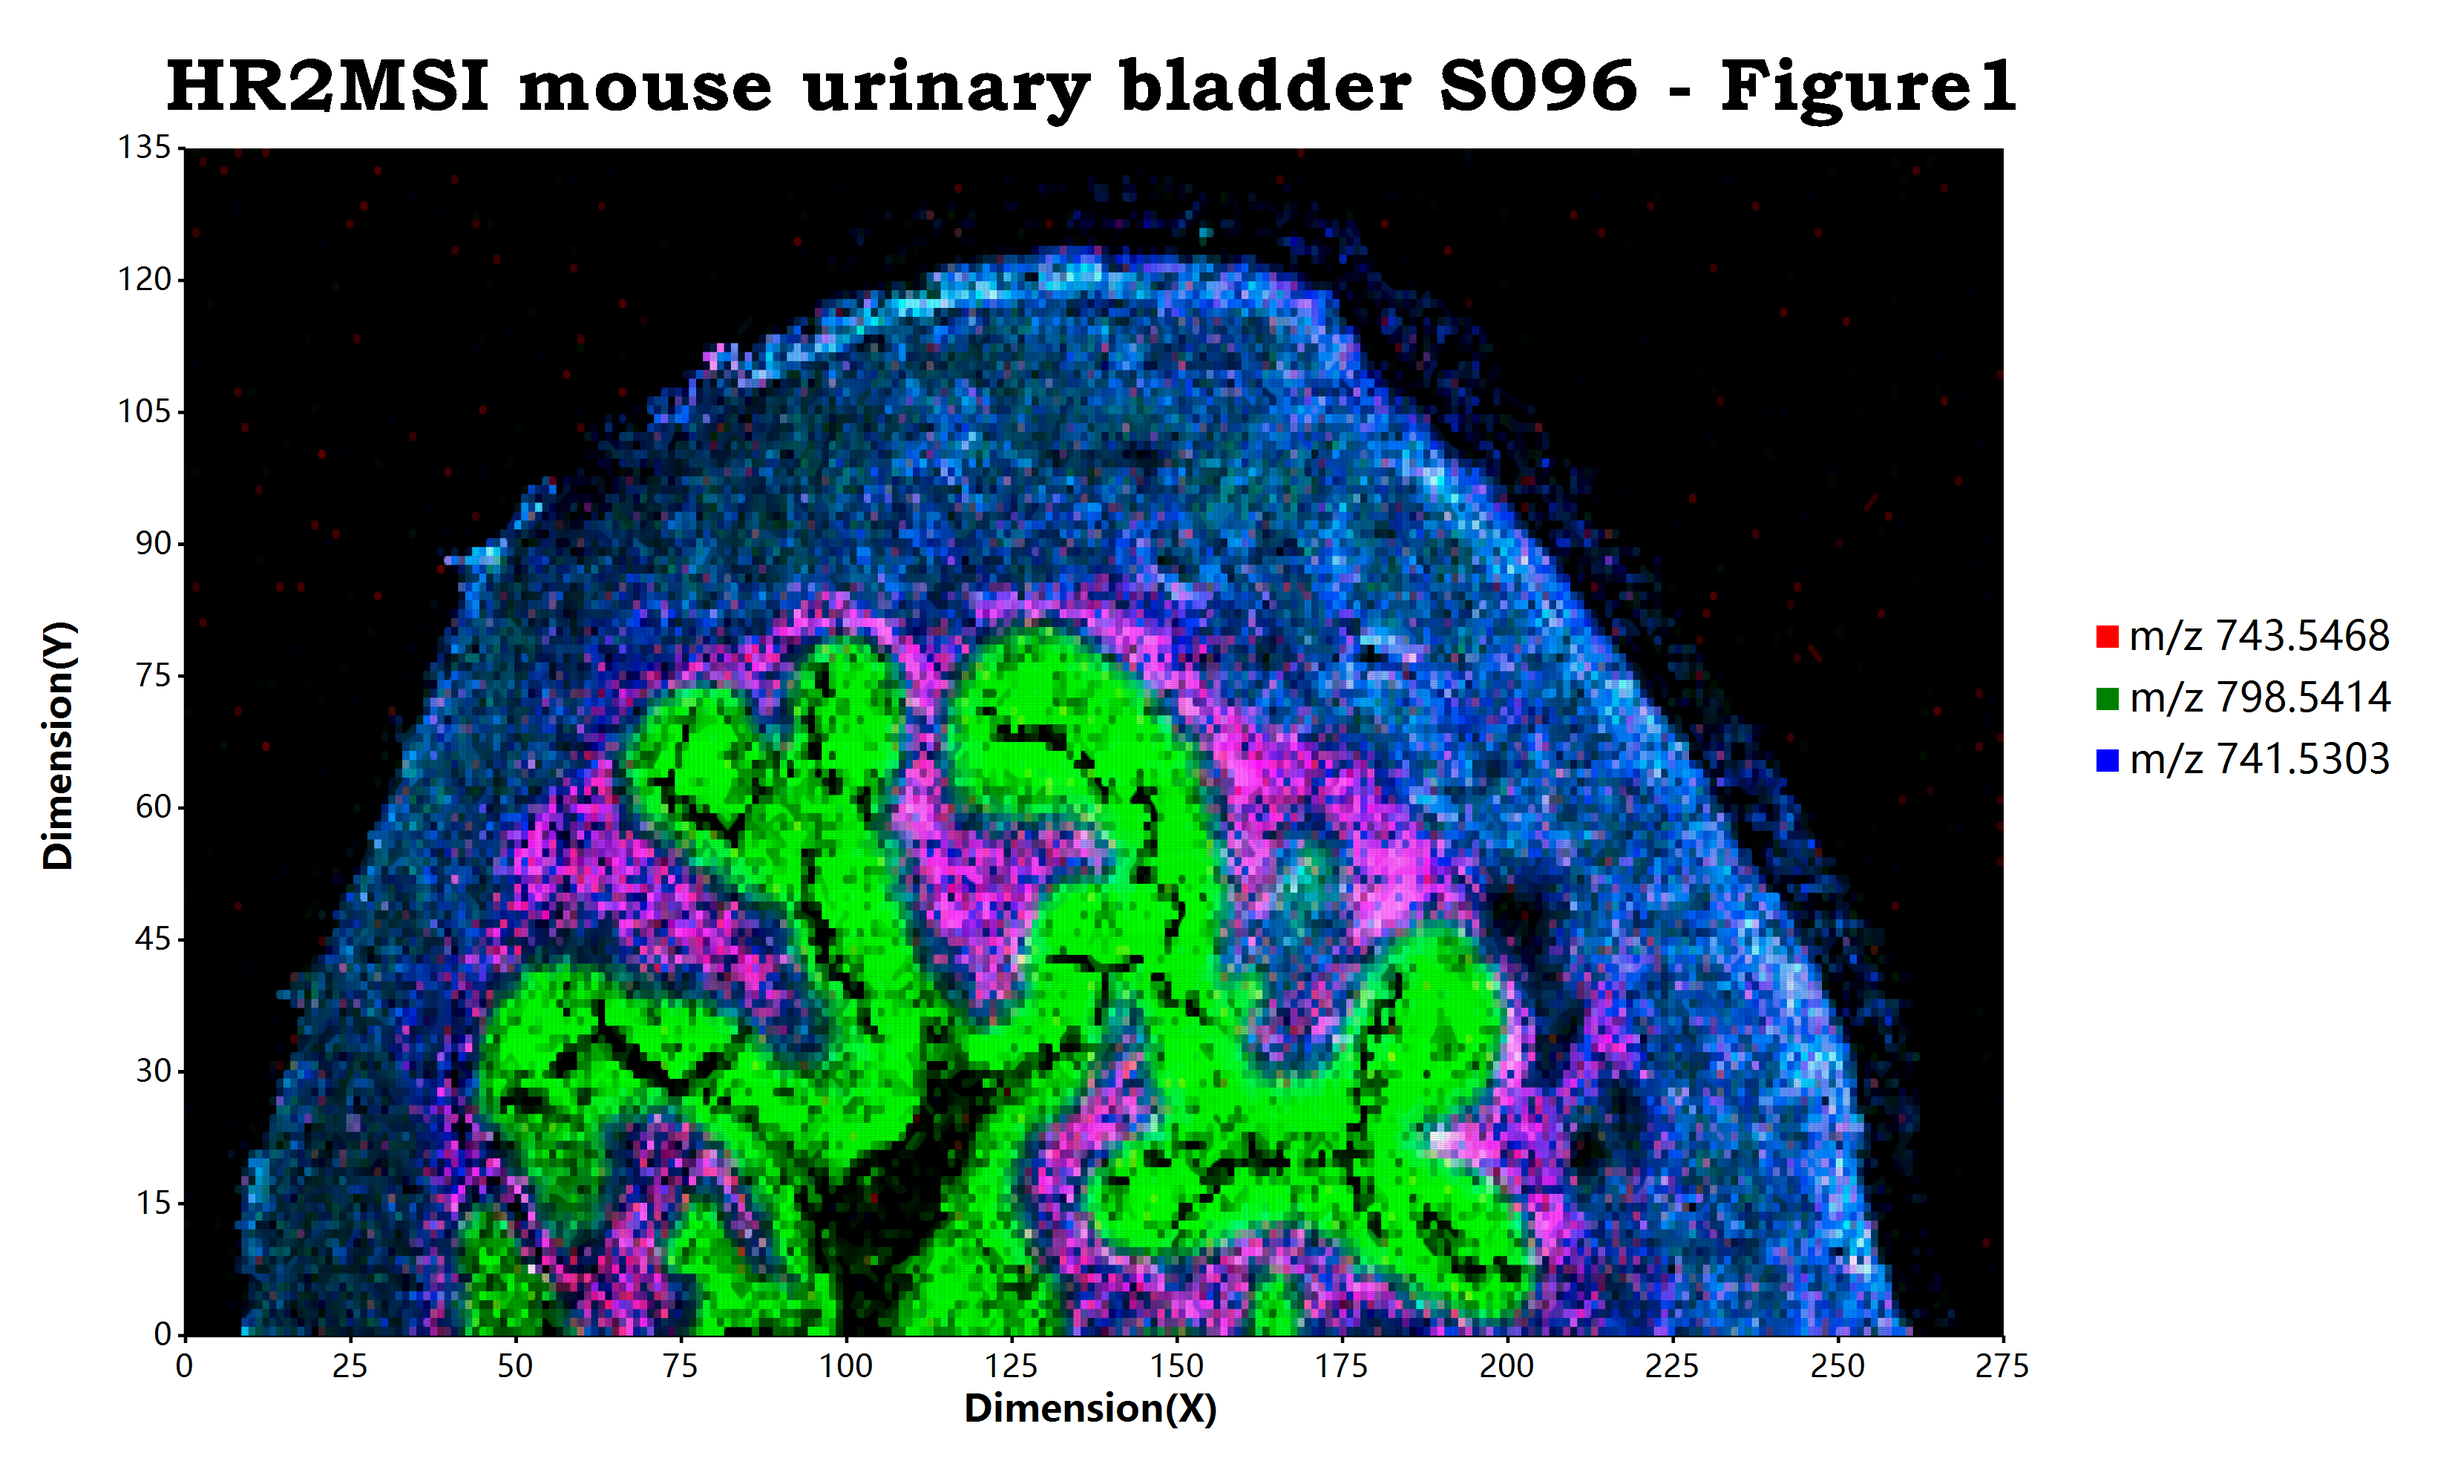
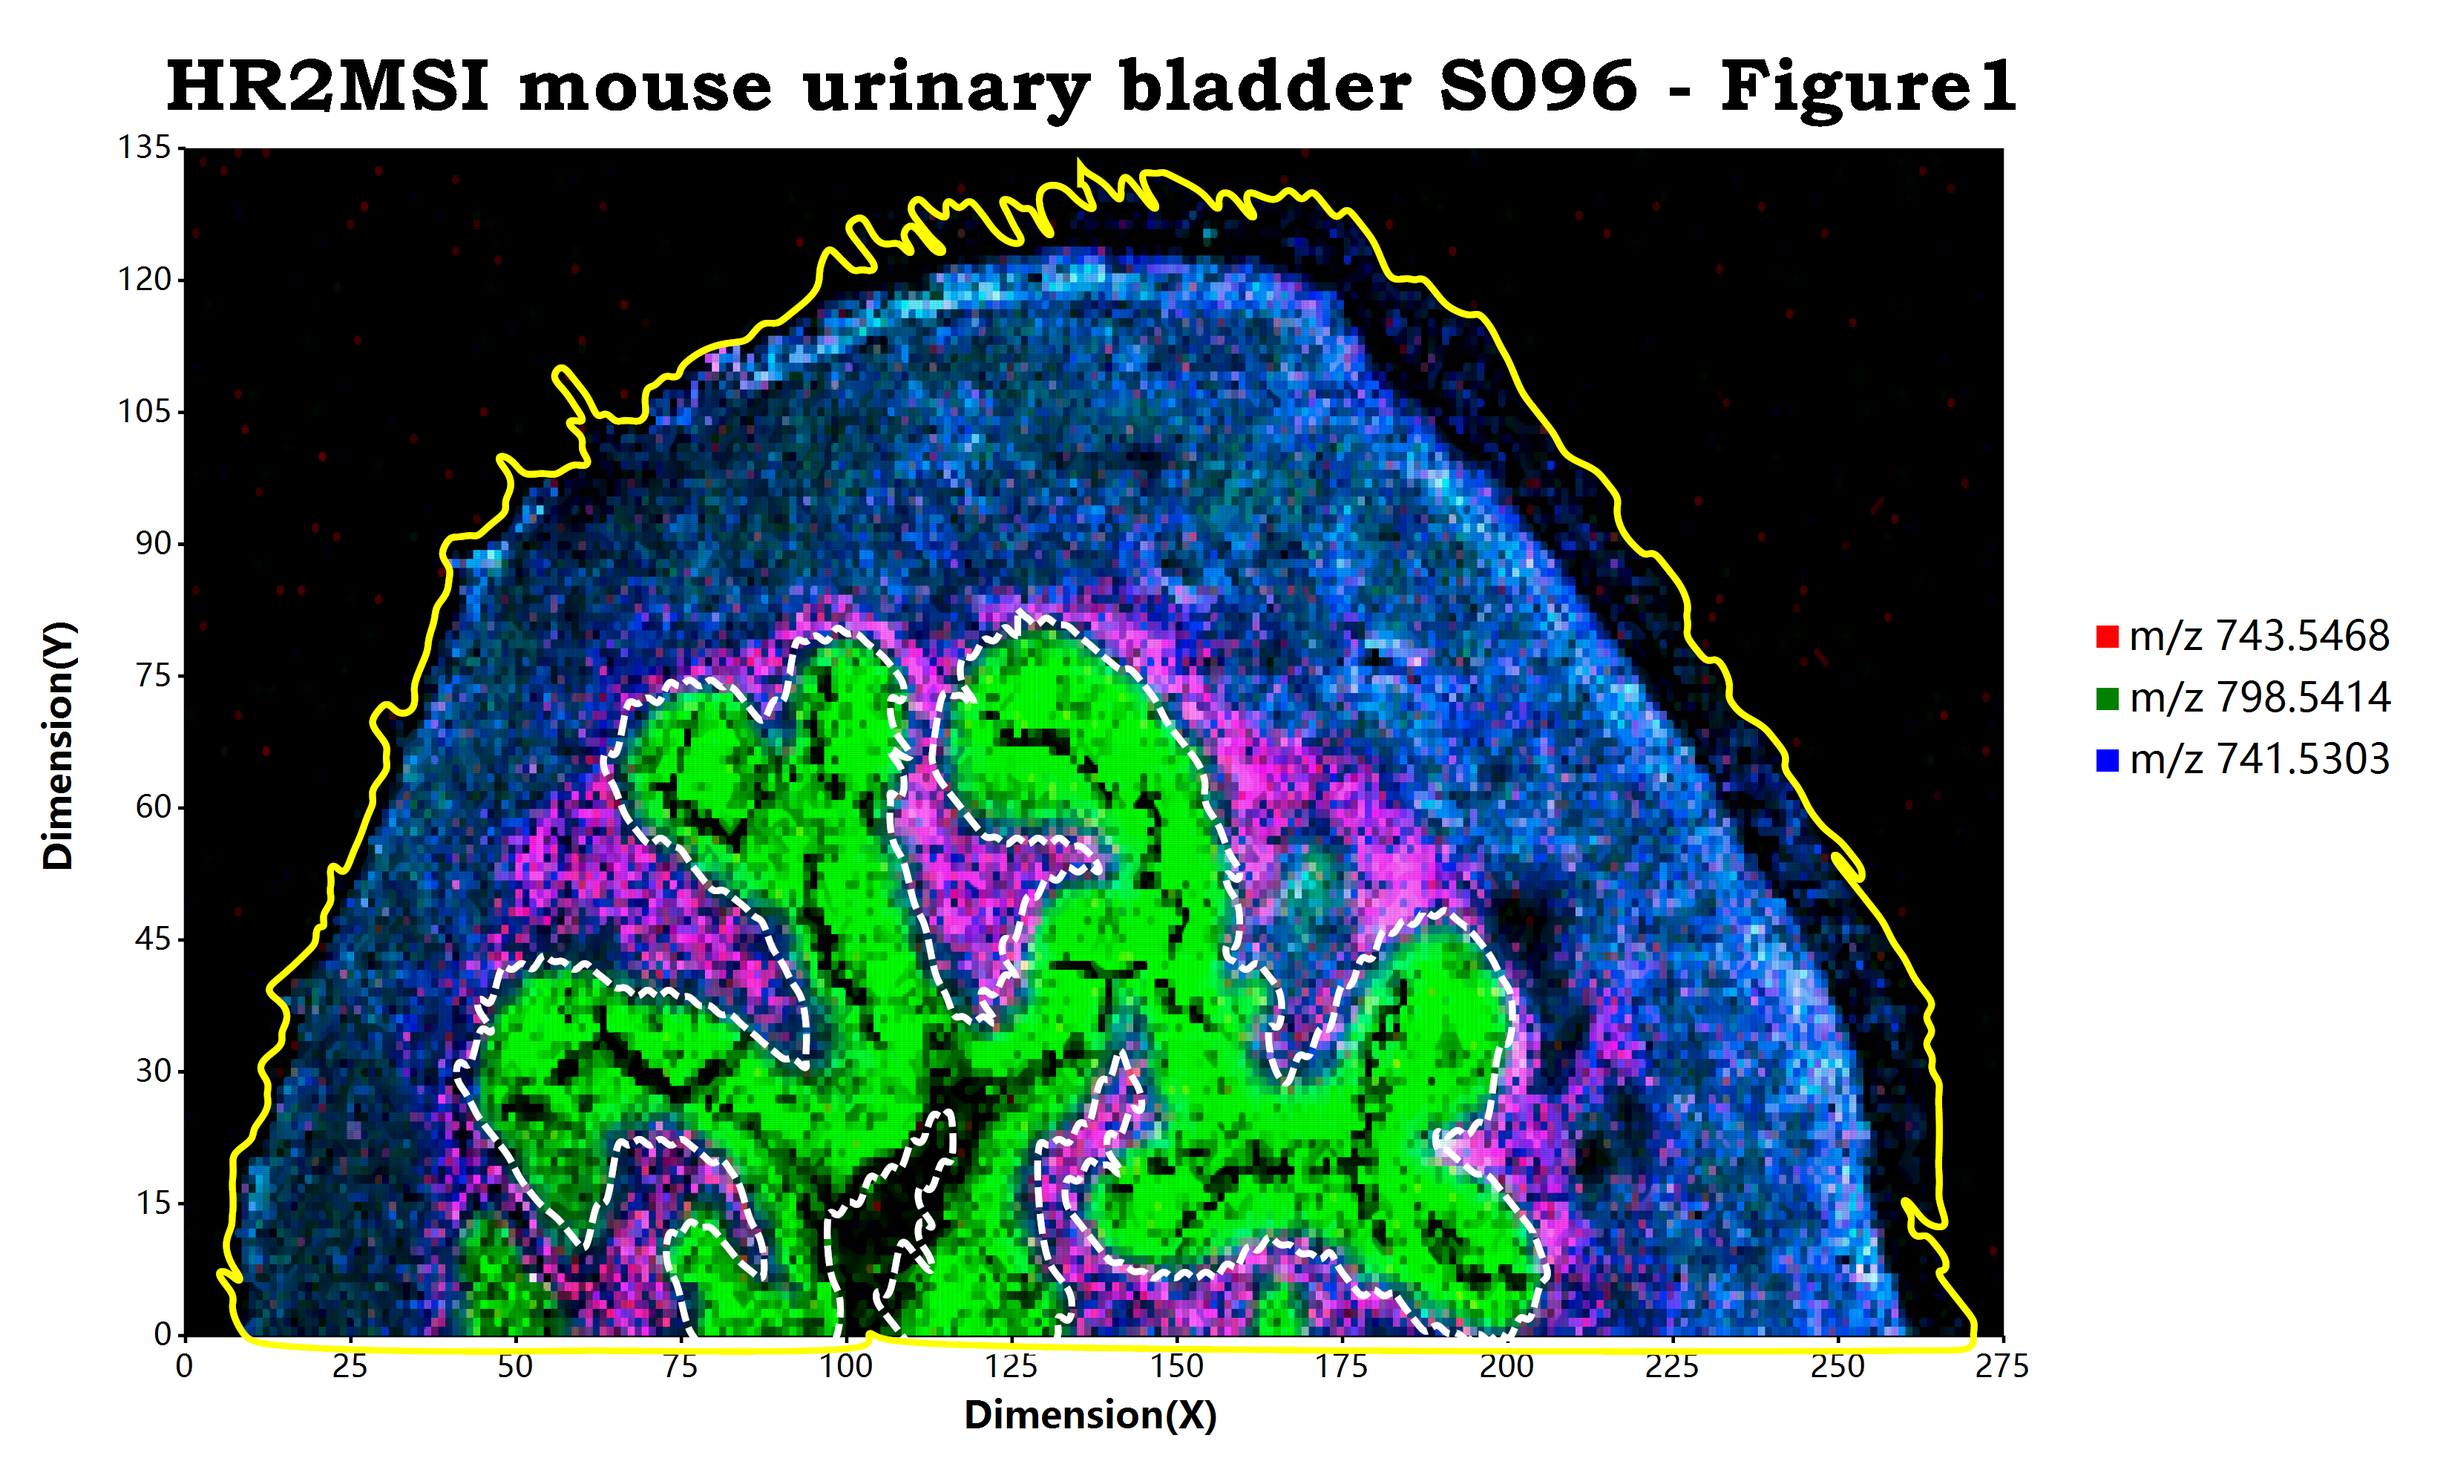
run outline demo test success

Changed region(s): [[0.0936, 0.093, 0.8115, 0.961]]

diff --git a/@export/ggplot.d.ts b/@export/ggplot.d.ts
@@ -144,7 +144,7 @@ declare namespace ggplot {
      * + default value Is ``0.1``.
      * @param line_stroke a @``T:ggplot.elements.lineElement`` that create via the ggplot function: ``element_line``.
      * 
-     * + default value Is ``'stroke: width; stroke-width: 6px; stroke-dash: solid;'``.
+     * + default value Is ``'stroke: white; stroke-width: 6px; stroke-dash: solid;'``.
    */
    function geom_sample_outline(spots?: object, threshold?: number, scale?: object, degree?: number, resolution?: object, q?: number, line_stroke?: any): object;
    /**

diff --git a/vignettes/MSImaging/ggplot/geom_sample_outline.html b/vignettes/MSImaging/ggplot/geom_sample_outline.html
@@ -34,7 +34,7 @@
     <i>degree</i> = <span style='color: green;'>20</span>,
     <i>resolution</i> = <span style='color: green;'>1000</span>,
     <i>q</i> = <span style='color: green;'>0.1</span>,
-    <i>line.stroke</i> = <span style='color: brown;'><strong>"stroke: width; stroke-width: 6px; stroke-dash: solid;"</strong></span>);</code></pre>
+    <i>line.stroke</i> = <span style='color: brown;'><strong>"stroke: white; stroke-width: 6px; stroke-dash: solid;"</strong></span>);</code></pre>
         </div>
 
         <h3>Arguments</h3>
